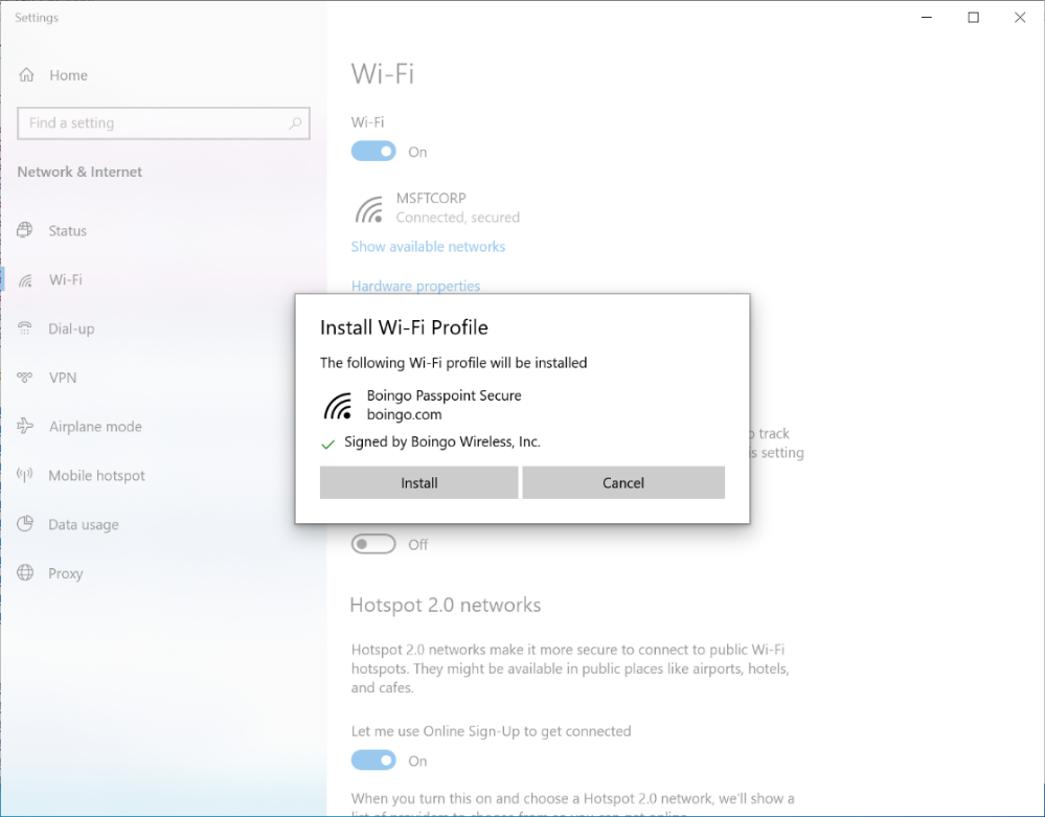
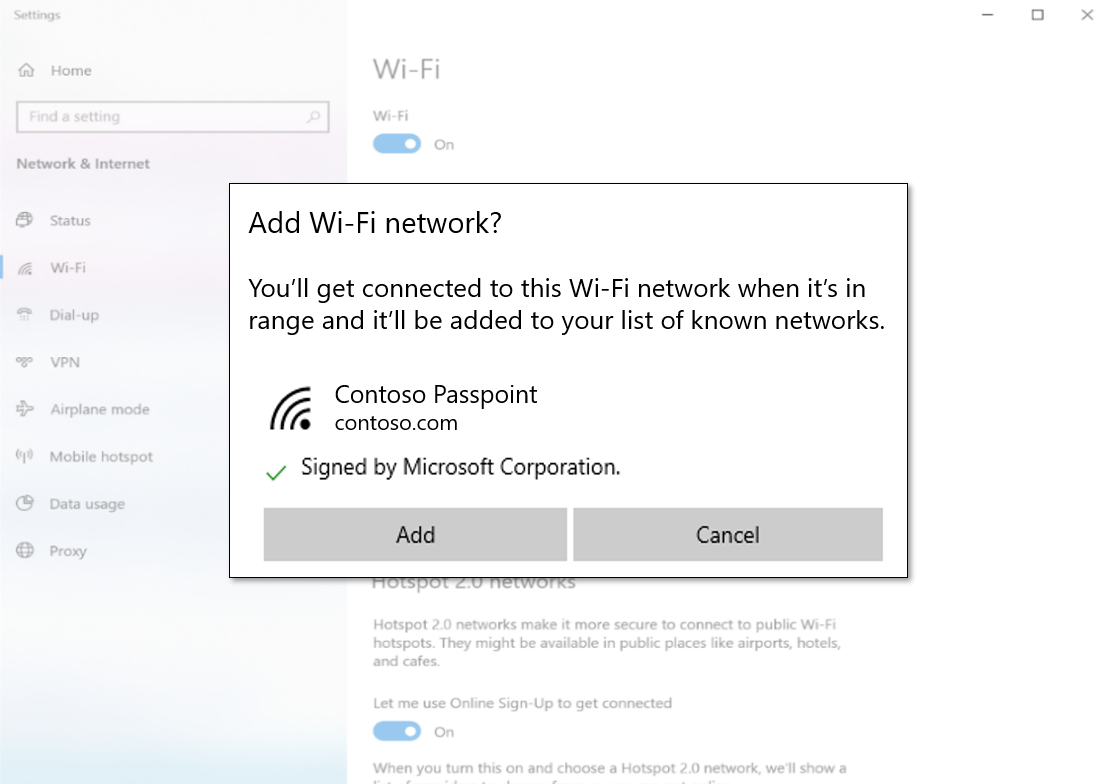
clarifications, and updated image (#405)

diff --git a/desktop-src/NativeWiFi/prov-wifi-profile-via-website.md b/desktop-src/NativeWiFi/prov-wifi-profile-via-website.md
@@ -21,19 +21,19 @@ You can activate this workflow from a hyperlink that includes as an argument the
 ms-settings:wifi-provisioning?uri={download_uri}
 ```
 
-For example, the following HTML markup gives a link to install the profile(s) that are found in a hypothetical document `http://localhost:5000/provdoc.xml`.
+For example, the following HTML markup gives a link to install the profile(s) that are found in a hypothetical document `http://contoso.com/ProvisioningDoc.xml`.
 
 ```html
-<a href="ms-settings:wifi-provisioning?uri=http://localhost:5000/provdoc.xml">Install</a>
+<a href="ms-settings:wifi-provisioning?uri=http://contoso.com/ProvisioningDoc.xml">Install</a>
 ```
 
-Your XML must adhere to the provisioning schema (see [Account provisioning](/windows-hardware/drivers/mobilebroadband/account-provisioning)). Your XML must also include one or more [WLANProfile](/windows/win32/nativewifi/wlan-profileschema-wlanprofile-element) elements. Each profile will be displayed in the **Install** dialog described next.
+Your XML must adhere to the provisioning schema (see [Account provisioning](/windows-hardware/drivers/mobilebroadband/account-provisioning)). Your XML must also include one or more [WLANProfile](/windows/win32/nativewifi/wlan-profileschema-wlanprofile-element) elements. Each profile will be displayed in the **Add** dialog described next.
 
 When the user clicks your HTML link, the installation workflow is invoked in the **Settings** app. Your provisioning XML document is downloaded by the **Settings** app. Once it's downloaded, information about the profiles, signature, and signer are displayed (provided that the document adheres to the schema).
 
 ![The Settings app](images/install-dialog.png)
 
-The **Install** button in the **Settings** app is enabled only if the provisioning file is signed and trusted.
+The **Add** button in the dialog in the **Settings** app is enabled only if the provisioning file is signed and trusted.
 
 ## In your web page, determine whether this workflow is supported
 
